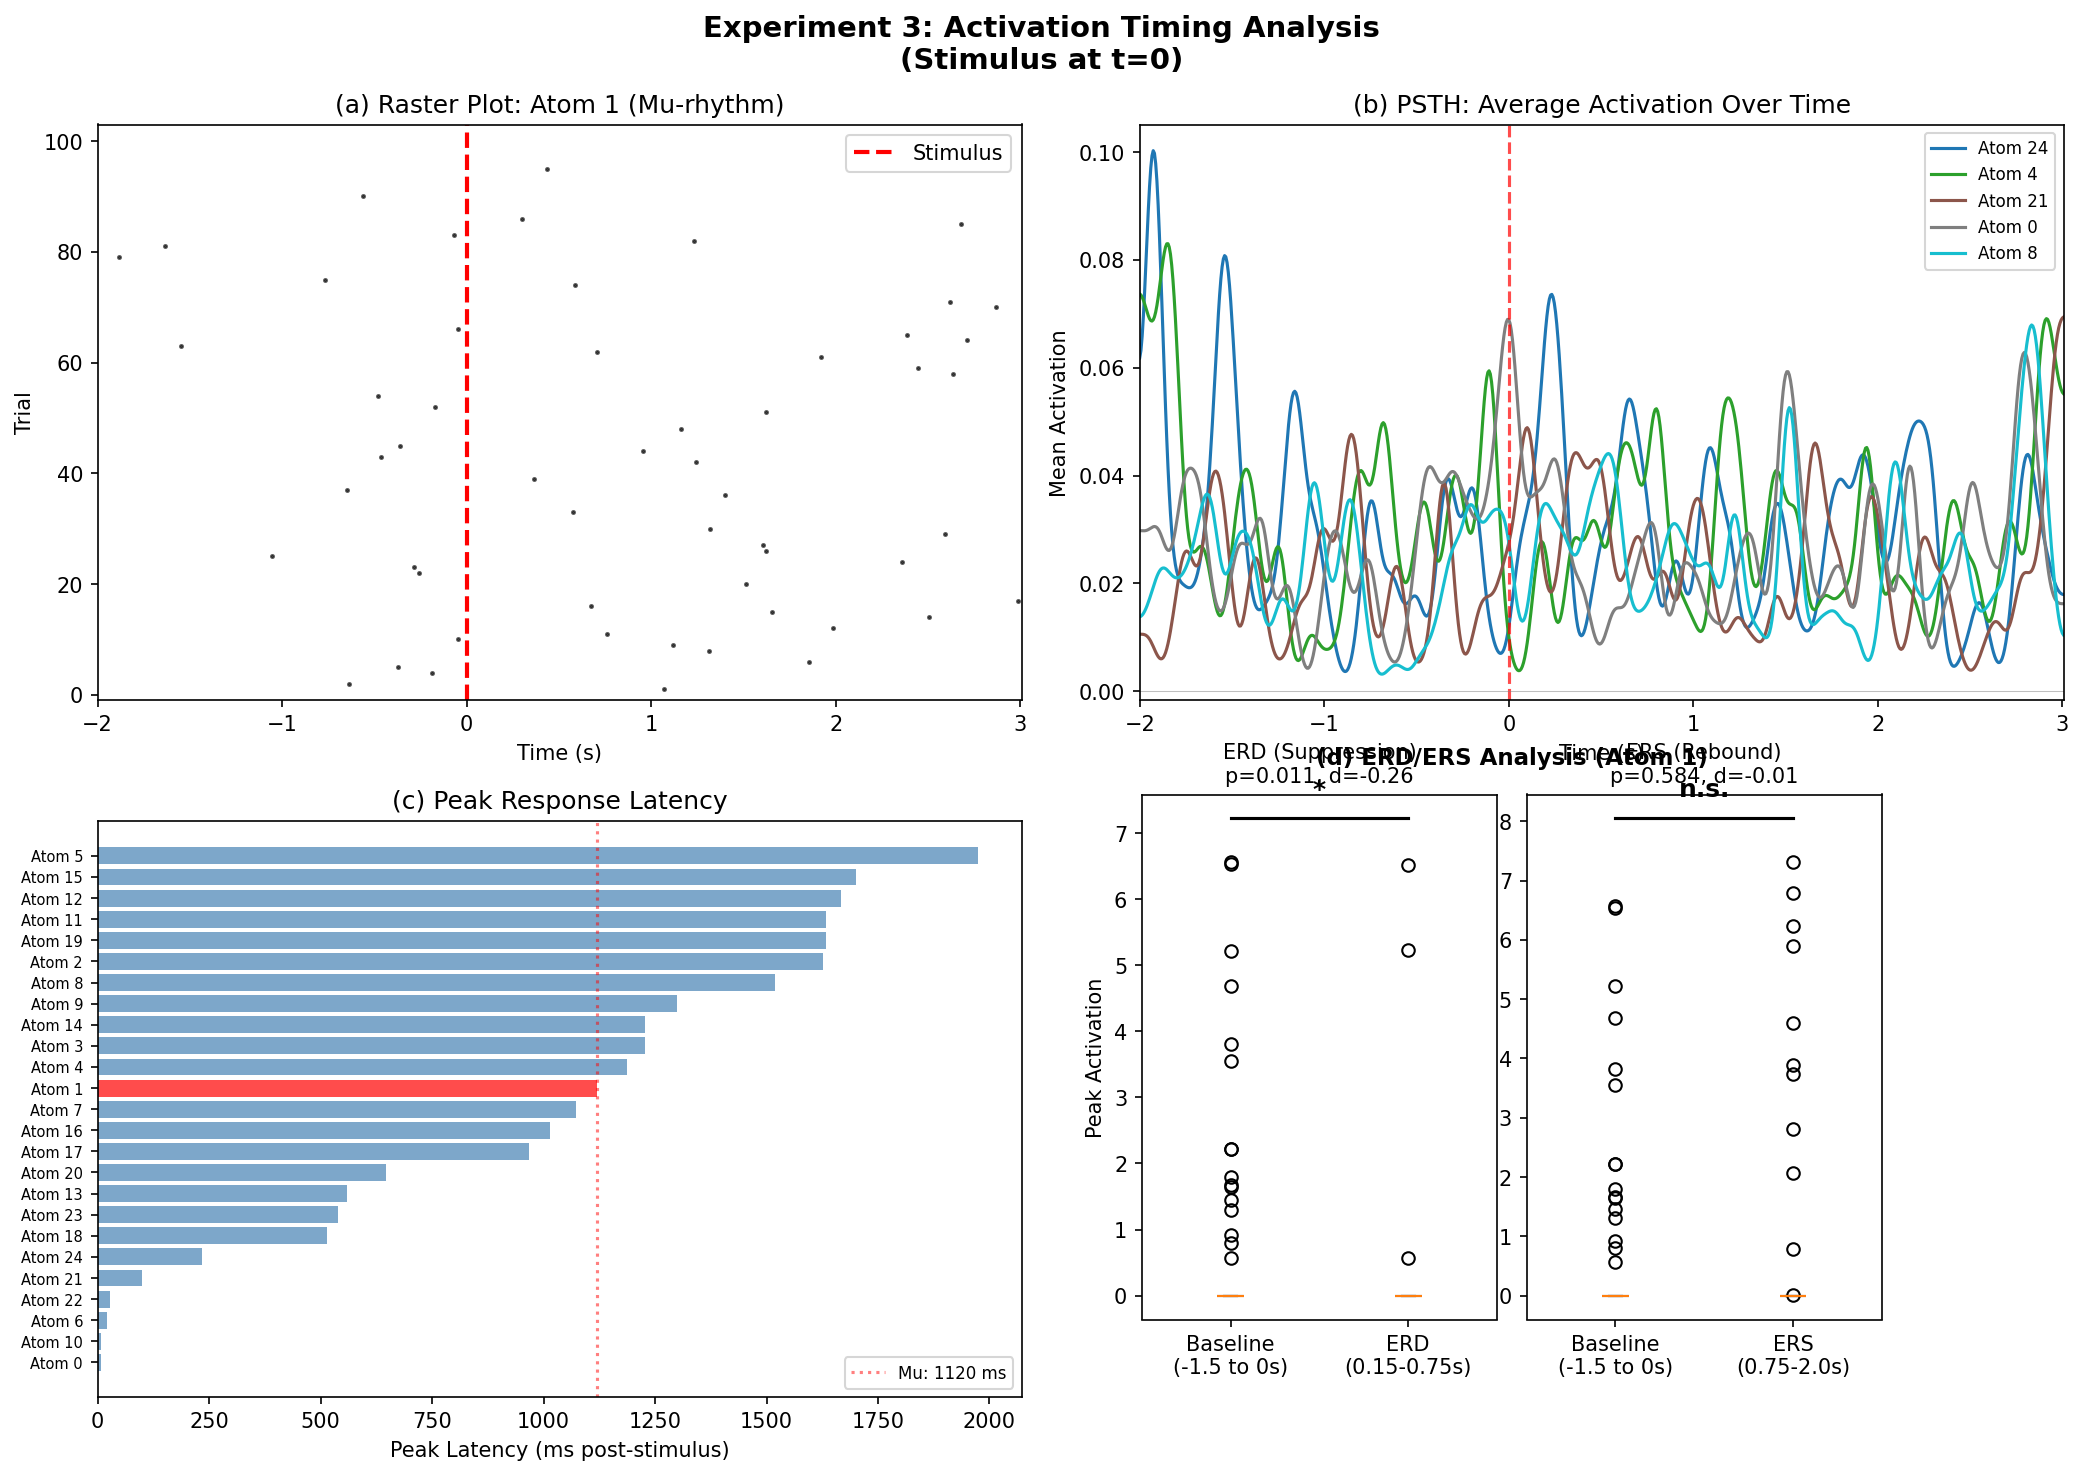
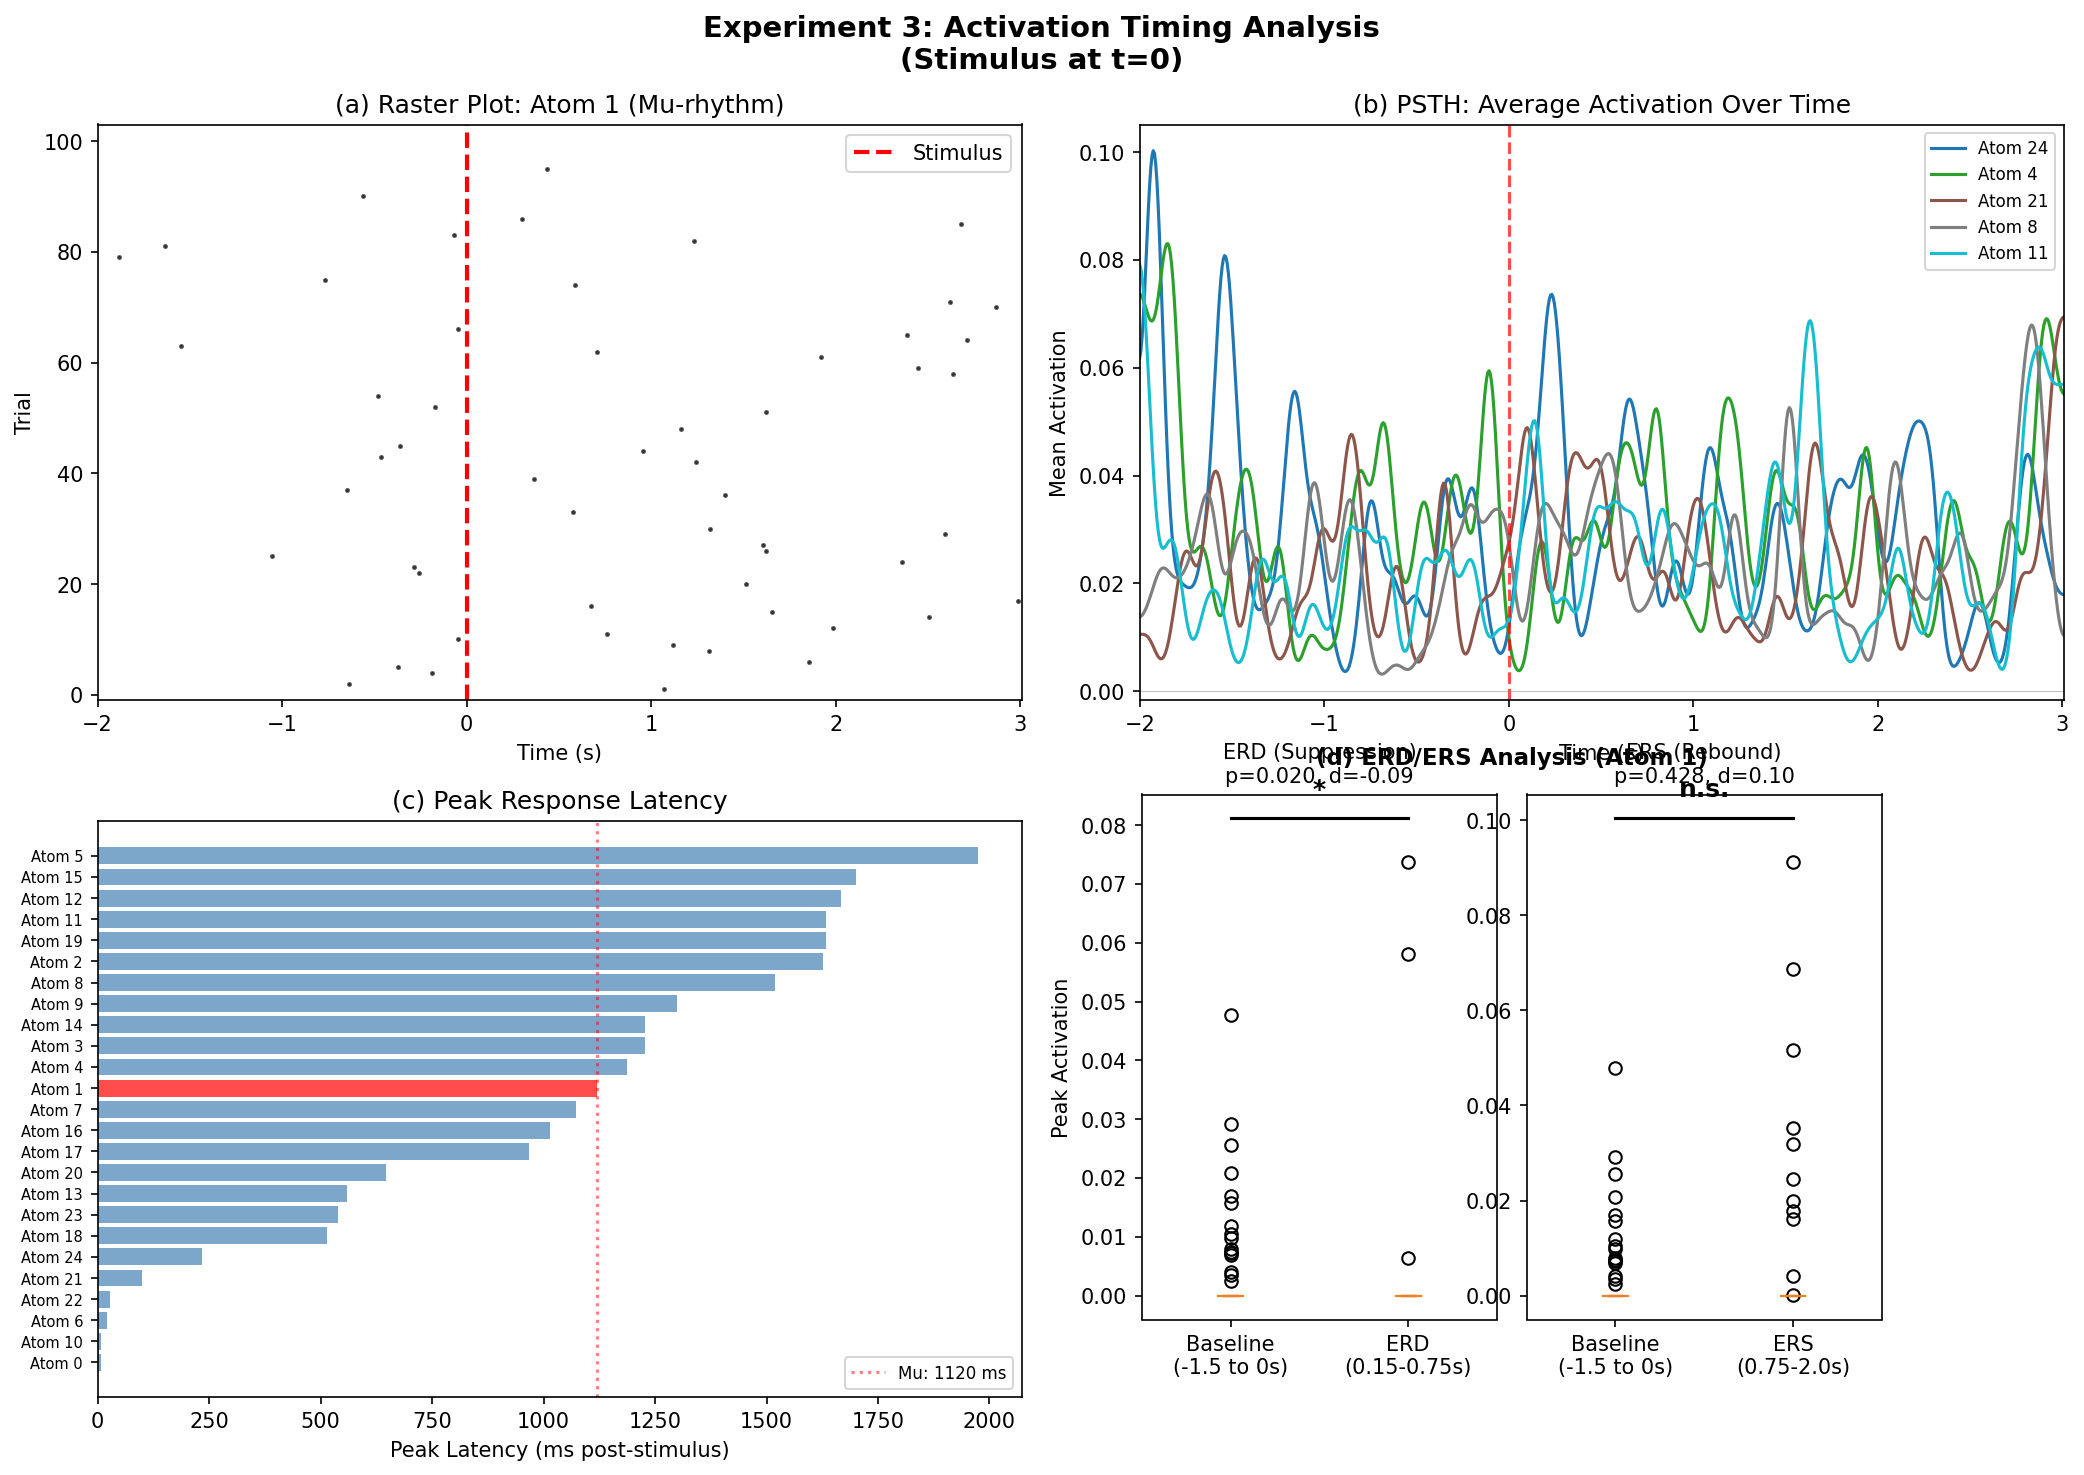
Use standard mean-based ERD/ERS method instead of max aggregation
Switch to mean activation per trial (Pfurtscheller & Aranibar, 1977) for
computing ERD/ERS values, which is the canonical approach in neurophysiology
literature. Max-based aggregation may inflate effect sizes and produces
results not comparable to published values.

🤖 Generated with [Claude Code](https://claude.com/claude-code)

diff --git a/experiment3_activation_timing.py b/experiment3_activation_timing.py
@@ -50,16 +50,14 @@ t_lim = (-2, 4)  # Epoch limits: 2s pre-stimulus, 4s post-stimulus
 # This is a VISUALIZATION choice, not affecting statistical analysis.
 RASTER_THRESHOLD_PERCENTILE = 90
 
-# Statistical aggregation method (Fix 5):
+# Statistical aggregation method (Pfurtscheller & Aranibar, 1977):
 # Controls how per-trial activation values are computed within time windows.
-# - 'max': Uses peak activation per trial (recommended for sparse signals)
-#          More sensitive to transient activations, which is appropriate for CSC
-#          where activations are designed to be sparse (L1 regularization).
-# - 'mean': Uses average activation per trial (more conservative)
-#           May miss transient events but more robust to noise.
-# Literature support: Sparse coding methods typically use peak-based metrics
-# as the sparsity constraint encourages brief, strong activations.
-STAT_AGGREGATION = 'max'
+# - 'mean': Uses average activation per trial (standard ERD/ERS method)
+#           The canonical ERD% formula uses mean power: ERD% = ((R-A)/R)*100
+#           This is the established method in the neurophysiology literature.
+# - 'max': Uses peak activation per trial (non-standard, not recommended)
+#           May inflate effect sizes and is not comparable to literature values.
+STAT_AGGREGATION = 'mean'
 
 # One-tailed test justification (Fix 5):
 # We use one-tailed Wilcoxon tests because:
@@ -364,9 +362,9 @@ def statistical_comparison(z_hat, time_axis, pre_window=(-1.5, 0), post_window=(
     pre_mask = (time_axis >= pre_window[0]) & (time_axis < pre_window[1])
     post_mask = (time_axis >= post_window[0]) & (time_axis < post_window[1])
 
-    # Peak activation per trial in each window (more sensitive than mean for sparse signals)
-    pre_trial_means = np.max(z_hat[:, :, pre_mask], axis=2)  # (n_trials, n_atoms)
-    post_trial_means = np.max(z_hat[:, :, post_mask], axis=2)
+    # Mean activation per trial in each window (standard ERD/ERS method)
+    pre_trial_means = np.mean(z_hat[:, :, pre_mask], axis=2)  # (n_trials, n_atoms)
+    post_trial_means = np.mean(z_hat[:, :, post_mask], axis=2)
 
     p_values = np.zeros(n_atoms)
     effect_sizes = np.zeros(n_atoms)
